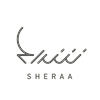
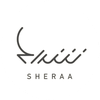
fix: use original graphics for 1.png instead of solid white circle

diff --git a/index.html b/index.html
@@ -2017,7 +2017,7 @@
           <!-- SET 1 -->
           <div class="network-marquee-group">
             <div class="network-logo-box">
-              <img src="assets/partners/1_white.png" alt="Partner logo 1" class="network-logo-white" loading="lazy" />
+              <img src="assets/partners/1.png" alt="Partner logo 1" class="network-logo-white" loading="lazy" />
               <img src="assets/partners/1.png" alt="Partner logo 1" class="network-logo-color" loading="lazy" />
             </div>
             <div class="network-logo-box">
@@ -2073,7 +2073,7 @@
           <!-- SET 2 (Duplicate for seamless loop) -->
           <div class="network-marquee-group" aria-hidden="true">
             <div class="network-logo-box">
-              <img src="assets/partners/1_white.png" alt="" class="network-logo-white" loading="lazy" />
+              <img src="assets/partners/1.png" alt="" class="network-logo-white" loading="lazy" />
               <img src="assets/partners/1.png" alt="" class="network-logo-color" loading="lazy" />
             </div>
             <div class="network-logo-box">
